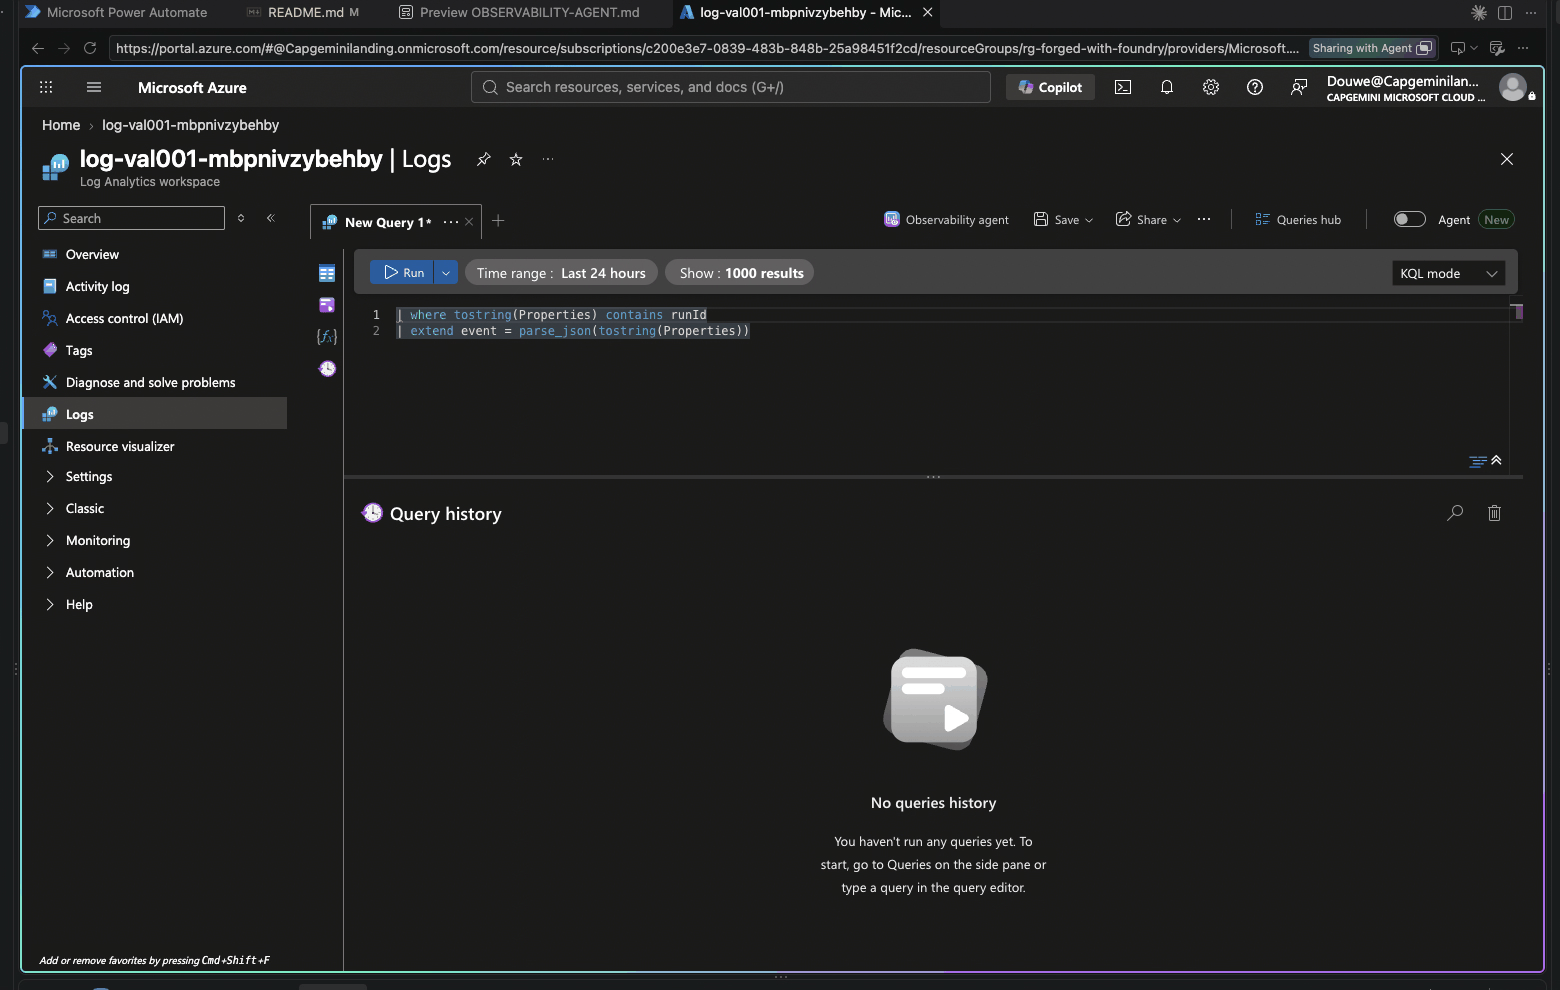
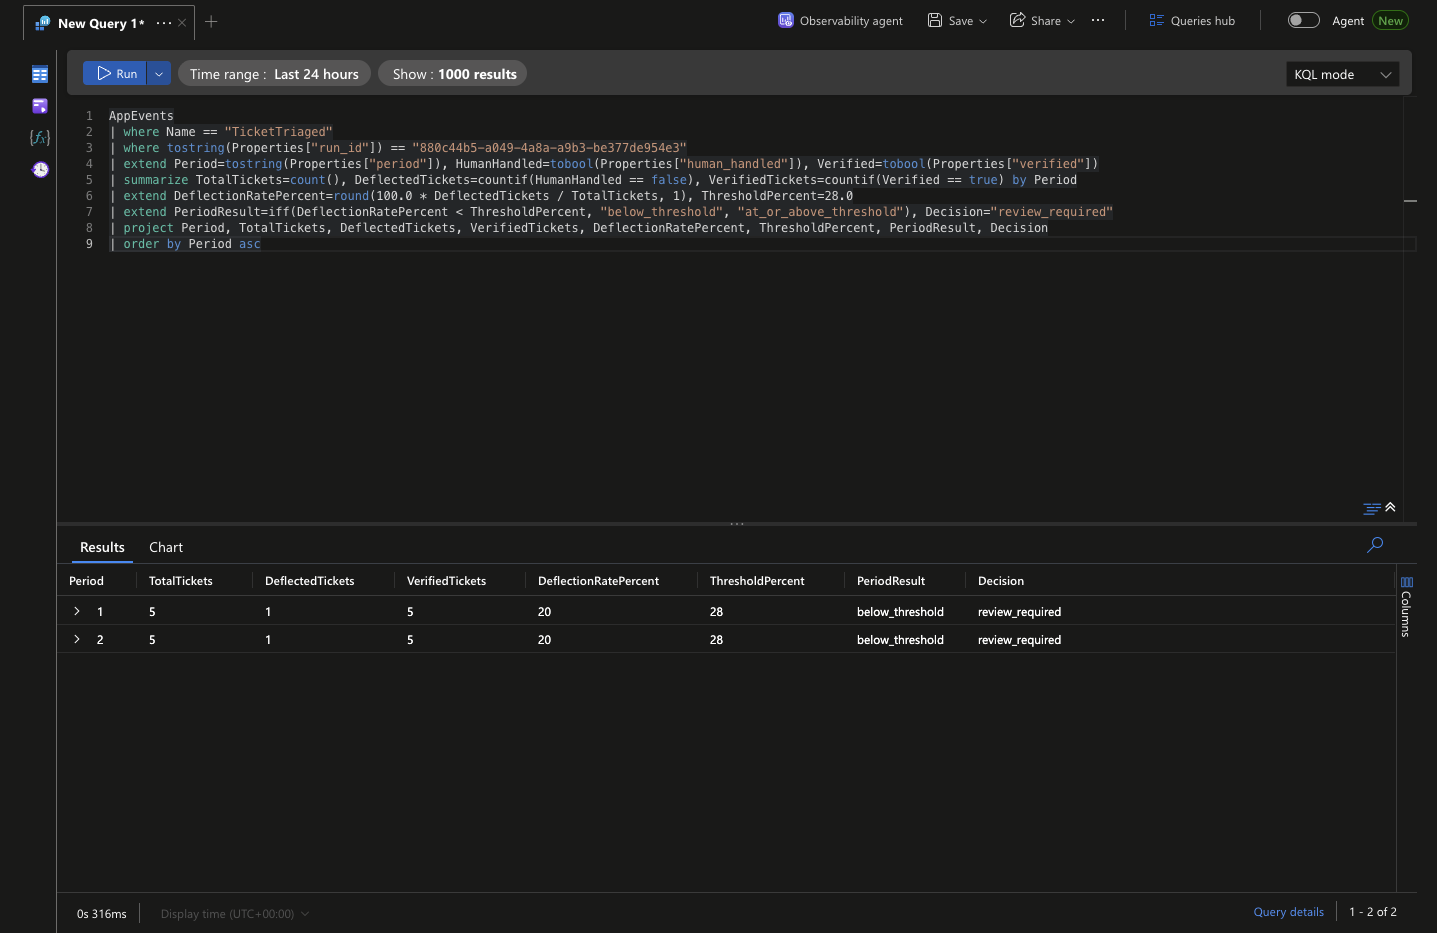
Refactor code structure for improved readability and maintainability

diff --git a/controls/value_adoption_and_finops/VAL-001_kpi_underperformance/docs/OBSERVABILITY-AGENT.md b/controls/value_adoption_and_finops/VAL-001_kpi_underperformance/docs/OBSERVABILITY-AGENT.md
@@ -31,7 +31,7 @@ produced a complete synthetic run with ID
 against the redeployed `AppEvents` table in the VAL-001 workspace and returned:
 
 | Period | Total | Deflected | Rate | Threshold | Result |
-|---|---:|---:|---:|---:|---|
+| --- | ---: | ---: | ---: | ---: | --- |
 | 1 | 5 | 1 | 20% | 28% | `below_threshold` |
 | 2 | 5 | 1 | 20% | 28% | `below_threshold` |
 
@@ -52,11 +52,10 @@ The configured Business Owner Teams Workflow accepted the corresponding
 notification with HTTP `202`. This confirms webhook acceptance only; Teams
 delivery still requires the documented operator inspection and receipt step.
 
-The live query was executed through the Azure Monitor workspace query surface.
-The browser subagent's Azure Portal Logs blade then failed to render its React
-content, so the existing screenshot proves the Observability Agent surface but
-not the query result itself. Do not describe it as a query-result screenshot
-until the Logs blade renders the query and result table successfully.
+The live query was also investigated through the Observability Agent. The
+captures in step 2 show the exact prompt and the agent's result for the same
+run. They demonstrate the exploratory agent experience, but the deterministic
+evaluator and its evidence record remain authoritative.
 
 ## Prerequisites
 
@@ -103,7 +102,8 @@ let perPeriod =
    | summarize total = count(),
             deflected = countif(outcome == "deflected"),
          items = sum(item_count),
-         invalidEvents = countif(not(verificationValid or outcomeValid or item_count == 1))
+         invalidEvents = countif(not(verificationValid or outcomeValid
+            or item_count == 1))
       by period
    | extend ratePercent = round(100.0 * todouble(deflected) / todouble(total), 2),
           thresholdPercent = thresholdPercent
@@ -128,9 +128,46 @@ perPeriod
 
 ### 2. Ask the Observability Agent to explain the KPI result
 
-Open the Observability Agent beside the Logs view and ask:
+Open the Observability Agent beside the Logs view and use this prompt:
 
-> Explain the KPI result for VAL-001 run `<RUN_ID>`. Use the query result already visible in Logs. State the deflection rate for each period, the 28% threshold, whether both periods are below threshold, and whether the result suggests `review_required` or `no_review_required`. Do not include ticket content.
+```text
+Analyze TicketTriaged events in AppEvents from the last 24 hours for run ID
+880c44b5-a049-4a8a-a9b3-be377de954e3, control ID VAL-001, and metric name
+tier1_ticket_deflection_rate. Parse the event payload from the JSON string in
+Properties.event.
+
+Include only events where verified equals "True" or "true".
+
+For each period:
+- Count all matching events and those with outcome deflected.
+- Calculate the deflection percentage using event counts, not ItemCount
+   weighting, rounded to two decimal places.
+- Compare the percentage against a threshold of 28%, calculated as 80% of the
+   35% target.
+- Label the result below_threshold if the percentage is strictly below 28%;
+   otherwise, label it at_or_above_threshold.
+
+Return review_required only if exactly two periods are present and both are
+below the threshold. Otherwise, return no_review_required.
+
+Show the per-period results, the final decision, and the KQL query used.
+```
+
+Replace the run ID when investigating another synthetic run.
+
+![VAL-001 investigation prompt in the Azure Observability Agent](../media/azure-observability-agent-prompt.png)
+
+The prompt capture records the exact run, control, metric, threshold, and
+decision rule supplied to the Observability Agent. It contains no ticket
+content or personal identifiers.
+
+![Observability Agent result for the VAL-001 underperformance run](../media/azure-observability-agent-result.png)
+
+The result capture shows five events and one deflection in each period, a
+20.00% rate for both periods, and the suggested `review_required` outcome. It
+also shows the KQL generated by the agent. This narrative is an investigation
+aid only and does not replace the evaluator's completeness, integrity, or
+fail-closed checks.
 
 The answer should explain the KPI outcome, not invent a target or claim that a
 notification was delivered. If the agent cannot explain the result, use the
@@ -170,7 +207,8 @@ AppEvents
          outcomes = make_set(tostring(event.outcome)),
          verification = make_set(tostring(event.verified))
    by period = toint(event.period), ticketId = tostring(event.ticket_id)
-| where observed > 1 or array_length(outcomes) > 1 or array_length(verification) > 1
+| where observed > 1 or array_length(outcomes) > 1
+   or array_length(verification) > 1
 | project period, ticketId, observed, outcomes, verification
 ```
 

diff --git a/controls/value_adoption_and_finops/VAL-001_kpi_underperformance/README.md b/controls/value_adoption_and_finops/VAL-001_kpi_underperformance/README.md
@@ -257,7 +257,7 @@ followed by a matching Teams `201` posting receipt.
 A separate run at `2/5 (40%)` in both periods produced `no_review_required`
 without notification. Interrupted runs produced `cannot_evaluate`.
 
-![Live KPI query and Teams governance outcomes](media/azure-kpi-query-review-required.png)
+![Live KPI query and Teams governance outcomes](media/azure-kpi-query-review-required.png) 
 
 The query result is the authoritative evidence for the KPI decision. The
 [Teams capture](docs/TEAMS-DELIVERY.md#configuration-captures) shows the
